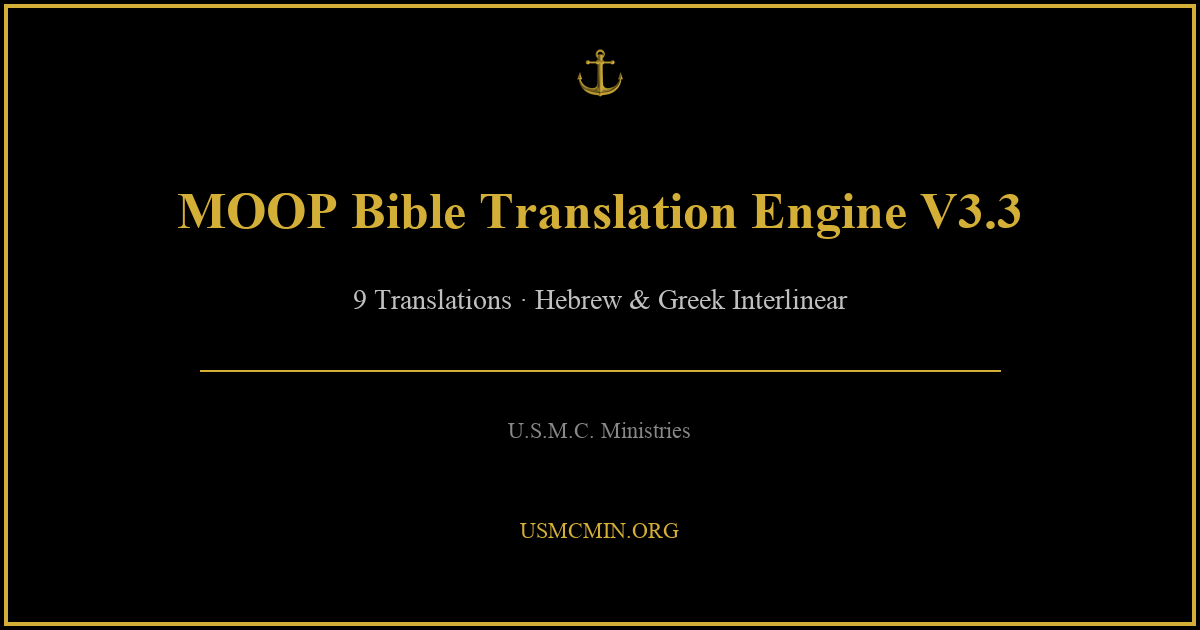
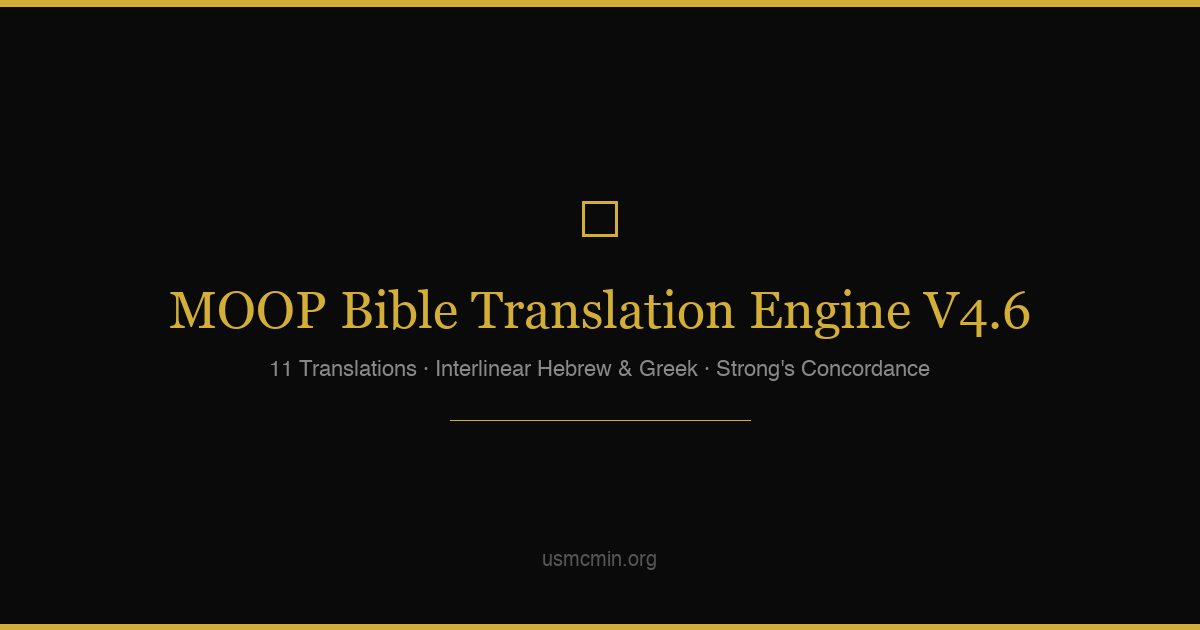
BTE v4.6: Restore Try examples, homepage transition, Loading text, fix weights display, OG image V4.6

diff --git a/docs/bible.html b/docs/bible.html
@@ -246,16 +246,18 @@
 </head>
 <body>
     <div class="container">
-        <section class="hero">
-            <img src="assets/logo.png" alt="U.S.M.C. Ministries" onerror="this.style.display='none'">
-            <h1>The MOOP Bible Translation Engine</h1>
-            <p class="subtitle">V4.6 · 11 Translations · Interlinear Hebrew &amp; Greek · Strong's Concordance</p>
-            <p class="desc">
-                Type any Bible reference below. The engine blends 11 English translations with
-                NKJV as the primary voice, surfaces meaningful divergences, and provides
-                original-language roots with links to full word studies.
-            </p>
-        </section>
+        <div id="home-panel">
+            <section class="hero">
+                <img src="assets/logo.png" alt="U.S.M.C. Ministries" onerror="this.style.display='none'">
+                <h1>The MOOP Bible Translation Engine</h1>
+                <p class="subtitle">V4.6 · 11 Translations · Interlinear Hebrew &amp; Greek · Strong's Concordance</p>
+                <p class="desc">
+                    Type any Bible reference below. The engine blends 11 English translations with
+                    NKJV as the primary voice, surfaces meaningful divergences, and provides
+                    original-language roots with links to full word studies.
+                </p>
+            </section>
+        </div>
 
         <div class="search-box">
             <input type="text" id="refInput" placeholder="e.g., Psalm 91, John 3:16, Romans 8:28-30"
@@ -263,15 +265,33 @@
             <button class="search-btn" id="searchBtn" onclick="lookupVerse()">Look Up</button>
         </div>
 
-        <!-- BTE v4.6: Bible Navigator (OT/NT → Category → Book → Chapter) -->
-        <div id="bibleNav" style="text-align:center; margin-bottom:30px;"></div>
+        <div id="back-to-home" style="display:none; text-align:left; margin-bottom:12px;">
+            <button onclick="showHome()" style="background:none; border:none; color:#D4AF37; cursor:pointer; font-size:0.9rem; padding:0;">← New Search</button>
+        </div>
+
+        <div id="home-panel-lower">
+            <div class="quick-links" style="margin-bottom:20px;">
+                <span>Try:&nbsp;</span>
+                <span class="quick-link" onclick="tryRef('Psalm 23')">Psalm 23</span>
+                <span class="quick-link" onclick="tryRef('John 3:16')">John 3:16</span>
+                <span class="quick-link" onclick="tryRef('Romans 8:28')">Romans 8:28</span>
+                <span class="quick-link" onclick="tryRef('Jeremiah 29:11')">Jeremiah 29:11</span>
+                <span class="quick-link" onclick="tryRef('Proverbs 3:5-6')">Proverbs 3:5-6</span>
+                <span class="quick-link" onclick="tryRef('Psalm 91')">Psalm 91</span>
+                <span class="quick-link" onclick="tryRef('Ephesians 6:10-18')">Ephesians 6:10-18</span>
+                <span class="quick-link" onclick="tryRef('2 Timothy 1:7')">2 Timothy 1:7</span>
+            </div>
+
+            <!-- BTE v4.6: Bible Navigator (OT/NT → Category → Book → Chapter) -->
+            <div id="bibleNav" style="text-align:center; margin-bottom:30px;"></div>
+        </div>
 
         <div id="results"></div>
     </div>
 
     <footer>
         <p>Built by <a href="usmc-ministries.html"><img src="/assets/icons/icon-anchor.svg" class="site-icon" alt="anchor" width="20" height="20"> U.S.M.C. Ministries</a> · <a href="mentoring.html"><img src="/assets/icons/icon-target.svg" class="site-icon" alt="target" width="20" height="20"> Mentoring</a> · <a href="index.html"><img src="/assets/icons/icon-book.svg" class="site-icon" alt="book" width="20" height="20"> Bible Reading Plan</a> · <a href="about.html"><img src="/assets/icons/icon-person.svg" class="site-icon" alt="person" width="20" height="20"> About</a> · Powered by The MOOP Bible Translation Engine V4.6</p>
-        <p style="margin-top: 5px;">NKJV 33% · ESV 11% · NASB 11% · CSB 9% · NLT 8% · KJV 7% · WEB 6% · NRSV 4% · AMP 3% · MSG 2% · NIV 1% · Interlinear 5%</p>
+        <p style="margin-top: 5px;">NKJV 33% · ESV 12% · NASB 12% · CSB 10% · NLT 9% · KJV 7% · WEB 7% · NRSV 4% · AMP 3% · MSG 2% · NIV 1% · Interlinear 5%</p>
         <p style="margin-top: 8px; font-size: 0.75rem;">
             Scripture: NKJV © Thomas Nelson · ESV © Crossway · NASB © Lockman · NLT © Tyndale ·
             CSB © Holman · AMP © Lockman · MSG © NavPress · NIV © Biblica · NRSV © NCC · KJV &amp; WEB: Public Domain
@@ -848,11 +868,33 @@
             });
         }
 
+        function showResults() {
+            document.getElementById('home-panel').style.display = 'none';
+            document.getElementById('home-panel-lower').style.display = 'none';
+            document.getElementById('back-to-home').style.display = 'block';
+        }
+
+        function showHome() {
+            document.getElementById('home-panel').style.display = 'block';
+            document.getElementById('home-panel-lower').style.display = 'block';
+            document.getElementById('back-to-home').style.display = 'none';
+            document.getElementById('results').innerHTML = '';
+            document.getElementById('refInput').value = '';
+            document.getElementById('refInput').focus();
+        }
+
+        function tryRef(ref) {
+            document.getElementById('refInput').value = ref;
+            lookupVerse();
+        }
+
         async function lookupVerse() {
             const input = document.getElementById('refInput').value.trim();
             if (!input) return;
             const ref = parseRef(input);
             if (!ref) { showError('Could not parse that reference. Try "Psalm 23" or "John 3:16".'); return; }
+
+            showResults();
 
             currentRef = ref;
 
@@ -866,7 +908,7 @@
             }
 
             document.getElementById('searchBtn').disabled = true;
-            document.getElementById('results').innerHTML = '<div class="loading"><img src="/assets/icons/icon-book.svg" class="site-icon" alt="book" width="20" height="20"> Fetching from 11 translations...</div>';
+            document.getElementById('results').innerHTML = '<div class="loading"><img src="/assets/icons/icon-book.svg" class="site-icon" alt="book" width="20" height="20"> Loading 11 translations...</div>';
 
             const allVerses = [];
             const allStrongs = [];
